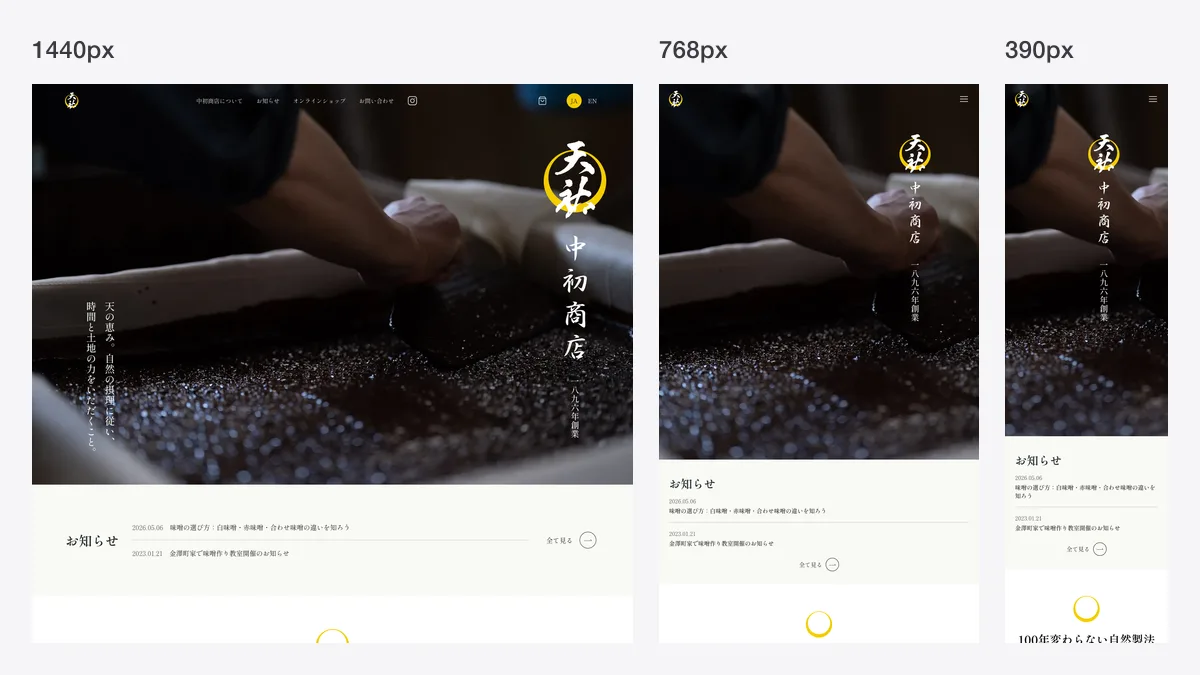
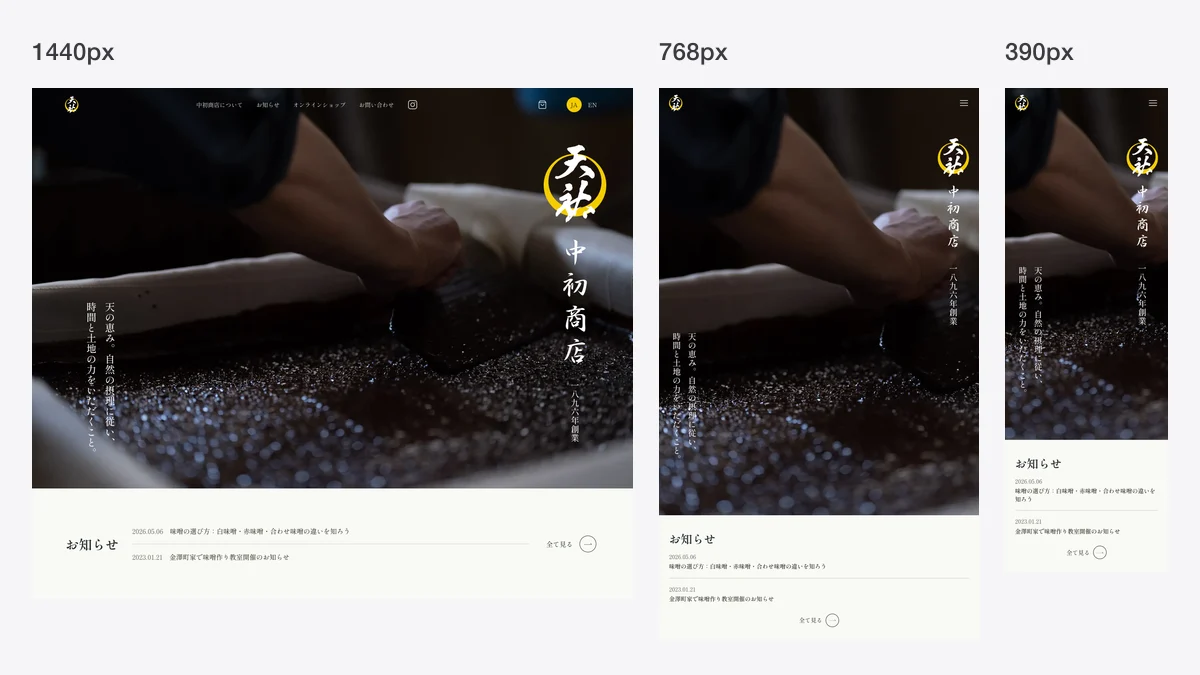
fix(work): reshoot the responsive figure so the SP vertical copy is there
Client feedback: the brand in the 390px panel sits in the wrong place. What
was actually wrong is that the vertical tagline beside it was missing
entirely, so the brand looked misplaced relative to nothing.

Three separate causes, all found by measuring rather than looking:

The top page runs an intro overlay (.nkv2-kura, fixed, z-index 10000) for
about 1.5 seconds, and networkidle returns while it is still up. The DOM
underneath is laid out correctly the whole time, so measurement passed and
only the screenshot was wrong — which is why this same screen had already
been misread twice, once as a loading spinner and once as the About emblem.
It is now skipped deterministically by setting the sessionStorage key the
snippet checks, rather than racing the animation.

On SP the hero is 100svh and the vertical copy is pinned bottom: 12vh, so the
capture viewport's height decides where that copy lands. The old figure came
from fullPage captures, which can resize the layout viewport, and the copy
fell outside the crop. Each width is now two stitched viewport screenshots at
a real device size (1440x900, 768x1024, 390x844).

The Shopify preview bar is re-injected after DOM removal, so it is blocked at
the network layer and then asserted absent.

Cut depth is now per-panel instead of one shared CSS depth. Content height
differs by width, so a single depth always truncated something: 768 lost its
"view all" button to the fade while 390 carried an orphaned ring from the
[…]

diff --git a/lessons.md b/lessons.md
@@ -812,3 +812,30 @@ headless フラグを疑う。
 
 図版を並行で作らせること自体は正しい。ただし**キャプションと alt は図版を見てから
 確定させる**。先に書くと、図版の中身ではなく自分の想定を説明する文になる。
+
+## 図版の撮り直し手順は、gitignore された作業ディレクトリに置かない
+
+2026-08-16、中初ケーススタディのレスポンシブ図版が「SP のヒーローで縦書きが消えている」と
+クライアントから指摘された。原因は撮影手順にあり、`.capture/compose.mjs` の
+`responsive()` がそれを再現する状態のまま残っていた。**`.capture/` は gitignore されている**ので、
+この関数も、そこに入れた警告も、worktree を消せば一緒に消える。
+
+**撮影手順そのものは成果物ではないが、失われると同じ図版を同じように壊す。**
+コミットされる場所に書く:
+
+- 撮影の罠と正しい手順 → 中初リポジトリの `scripts/qa/README.md`（コミット済み）
+- なぜそうなるかの記録 → このファイル
+
+### 今回の撮影で踏んだ罠（要点。詳細は上記 README）
+
+1. **イントロ演出 `.nkv2-kura`**（fixed / z-index 10000 / 約1.5秒）が覆う。
+   `networkidle` では待ちきれない。DOM は正常に組まれているので**測定は通り、
+   スクショだけ間違う**
+2. **SP のヒーローは `100svh`、縦書きは `bottom: 12vh`**。`fullPage: true` は
+   レイアウトビューポート高を変えうるので、縦書きが切り出し範囲の外に出る。
+   ビューポート撮影を2枚繋ぐこと
+3. **Shopify のプレビューバーは DOM から消しても非同期で再注入される。**
+   ネットワーク層で止める必要がある
+4. **3幅を同じ CSS 深さで切ると、内容の高さが違う分どこかが必ず途中で切れる。**
+   倍率だけ共有し、深さはパネルごとにセクション境界で決める。境界で切れば
+   フェードは要らない
